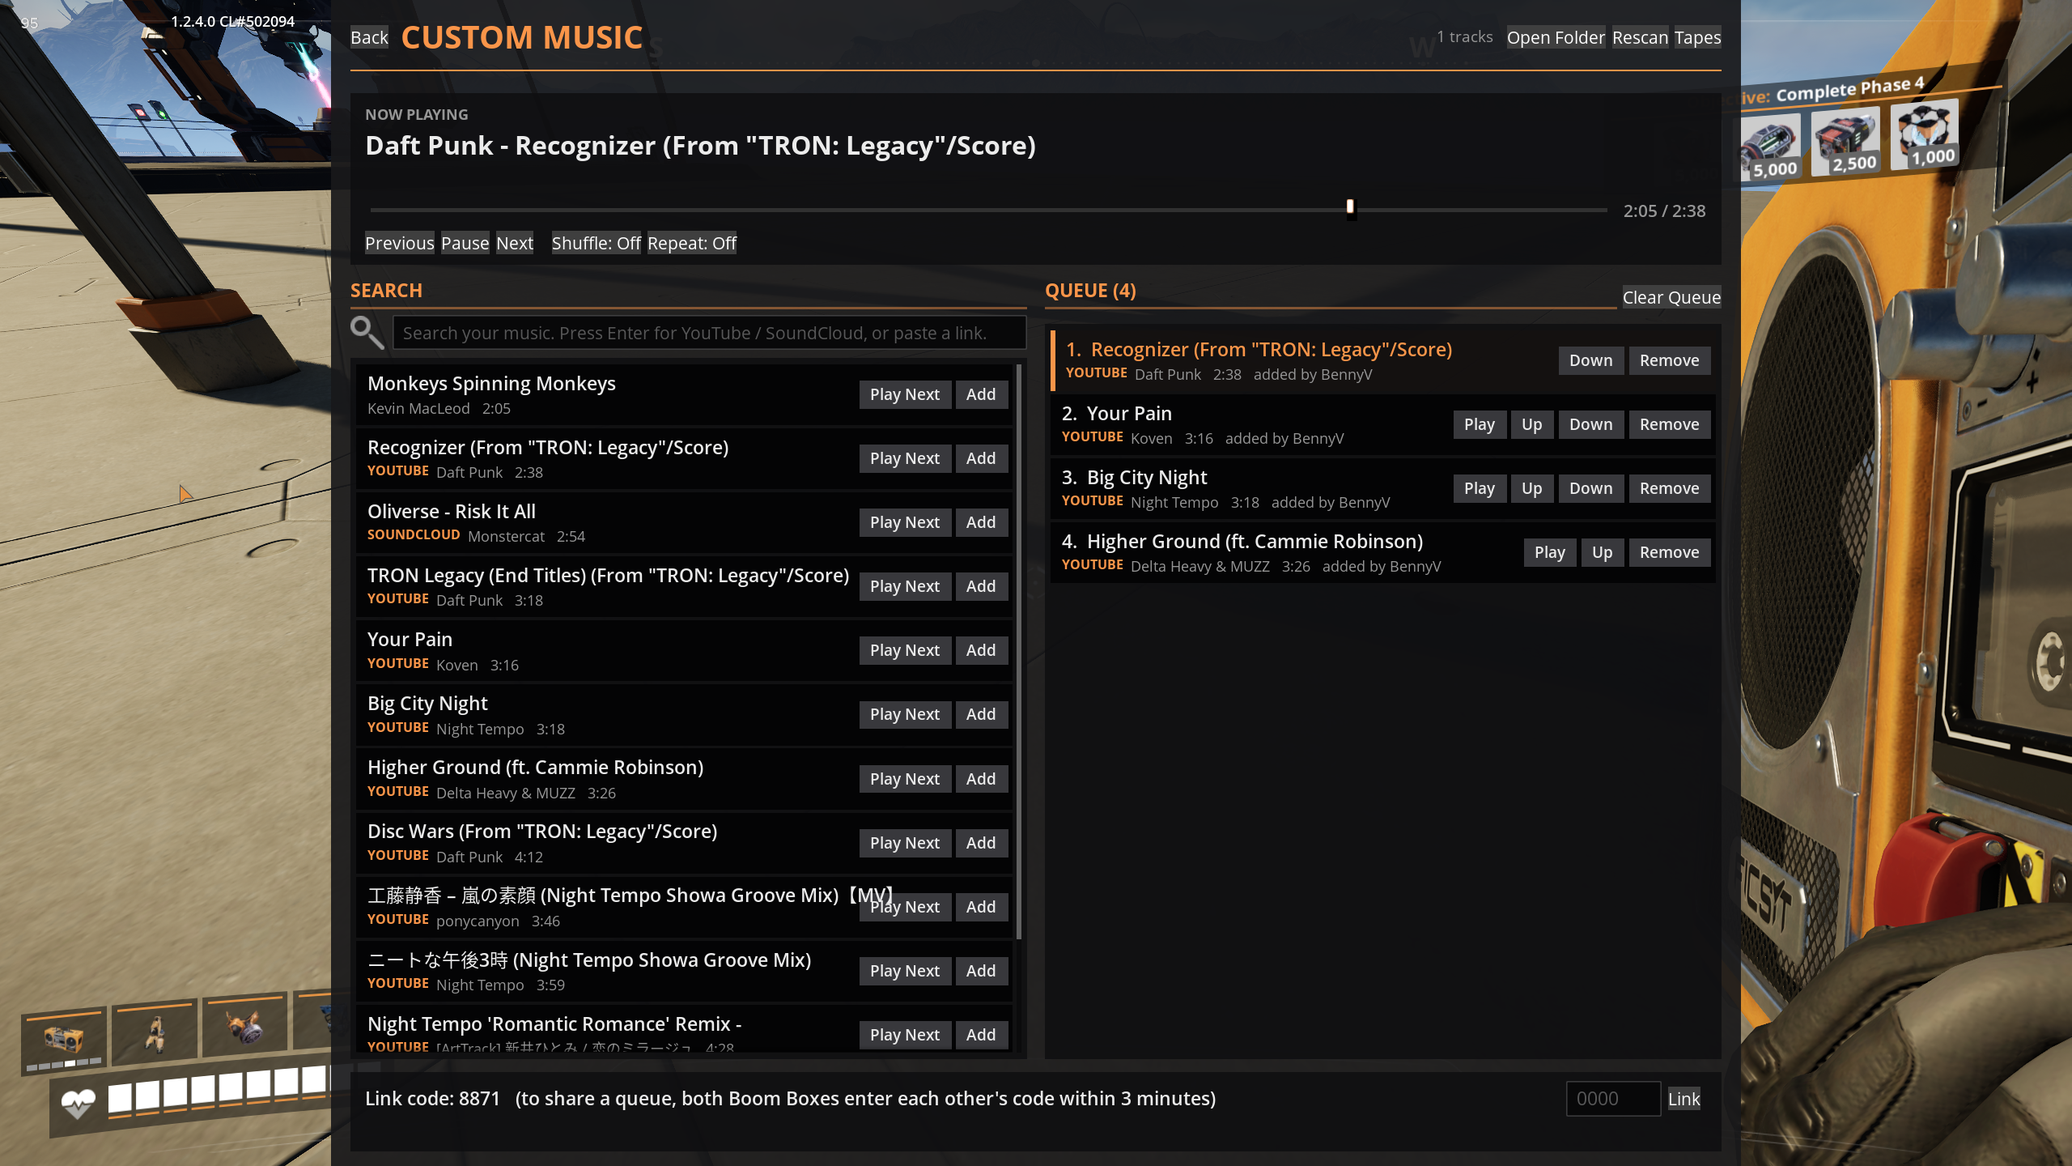
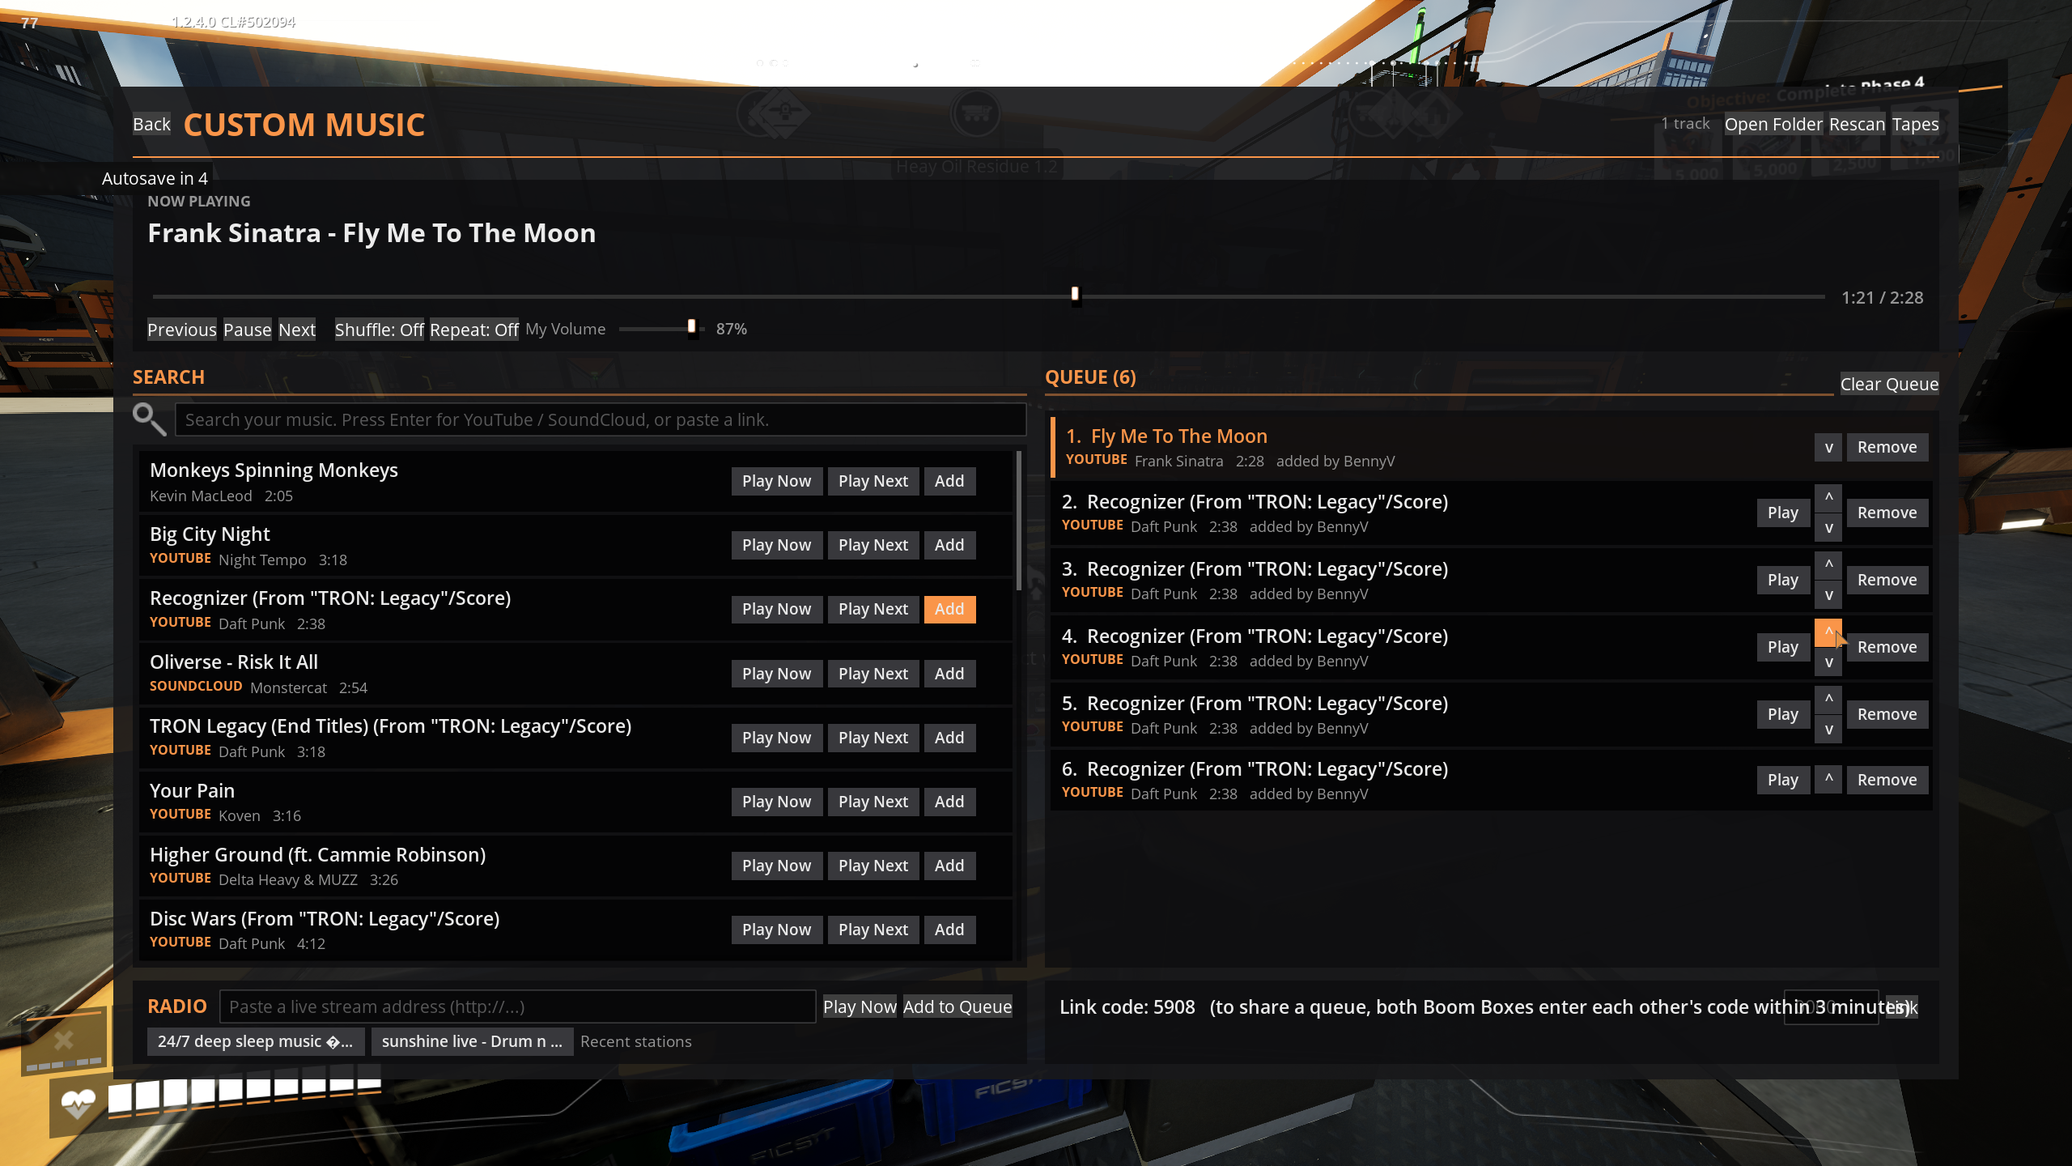
New screenshots; deletable demo track; strip emoji from titles; fit the link panel
- Docs: new in-game screenshots (search results, radio, YouTube live, queue with
  move arrows); mod page leads with the Custom Music button instead of the tape.
- The demo track is copied into the music folder once instead of being scanned
  from the plugin folder, so players can delete it.
- Titles drop emoji and pictographic symbols the game font can't draw.
- Link code line shortened; its explanation moved to the hint line; both clip.

diff --git a/Source/BoomBoxPlus/Private/UI/BBPMusicPage.cpp b/Source/BoomBoxPlus/Private/UI/BBPMusicPage.cpp
@@ -355,6 +355,7 @@ void UBBPMusicPage::BuildDefaultLayout()
 	LinkPanel->SetContent(LinkColumn);
 	UHorizontalBox* LinkRow = AddRow(LinkColumn, 0.f);
 	LinkCodeText = MakeText(WidgetTree, 13, TextColor, FText::GetEmpty(), EFontWeight::SemiBold);
+	Truncate(LinkCodeText);
 	AddToRow(LinkRow, LinkCodeText, true, 10.f);
 	LinkCodeBox = WidgetTree->ConstructWidget<UEditableTextBox>();
 	StyleTextBox(LinkCodeBox, 13);
@@ -368,6 +369,7 @@ void UBBPMusicPage::BuildDefaultLayout()
 	UnlinkButton = MakeButton(WidgetTree, LOCTEXT("Unlink", "Leave Group"));
 	AddToRow(LinkRow, UnlinkButton, false, 0.f);
 	LinkMessageText = MakeText(WidgetTree, 11, DimTextColor);
+	Truncate(LinkMessageText);
 	LinkColumn->AddChildToVerticalBox(LinkMessageText)->SetPadding(FMargin(0.f, 4.f, 0.f, 0.f));
 }
 
@@ -828,8 +830,8 @@ void UBBPMusicPage::RefreshTransport()
 	if (NowPlayingText)
 	{
 		NowPlayingText->SetText(!bHasCurrent ? LOCTEXT("NothingPlaying", "Nothing playing")
-			: bLive ? FText::FromString(Current.Track.Title)
-			: FText::FromString(FString::Printf(TEXT("%s - %s"), *Current.Track.Artist, *Current.Track.Title)));
+			: bLive ? BBPWidgetStyle::ToDisplayText(Current.Track.Title)
+			: BBPWidgetStyle::ToDisplayText(FString::Printf(TEXT("%s - %s"), *Current.Track.Artist, *Current.Track.Title)));
 	}
 	if (PositionText)
 	{
@@ -868,7 +870,7 @@ void UBBPMusicPage::RefreshTransport()
 		{
 			Line = UBBPBlueprintLibrary::GetCurrentLyricLine(Channel);
 		}
-		LyricText->SetText(FText::FromString(Line));
+		LyricText->SetText(BBPWidgetStyle::ToDisplayText(Line));
 	}
 	if (Channel)
 	{
@@ -895,12 +897,12 @@ void UBBPMusicPage::RefreshLink()
 		}
 		else if (Shared > 1)
 		{
-			Text = FText::Format(LOCTEXT("LinkCodeShared", "Link code: {0}   (grouped with {1} Boom Boxes; this stays paired across saves)"),
+			Text = FText::Format(LOCTEXT("LinkCodeShared", "Link code: {0}   (grouped with {1} Boom Boxes)"),
 				FText::FromString(FString::Printf(TEXT("%04d"), Channel->GetLinkCode())), Shared);
 		}
 		else
 		{
-			Text = FText::Format(LOCTEXT("LinkCodeSolo", "Link code: {0}   (to share a queue, both Boom Boxes enter each other's code within 3 minutes)"),
+			Text = FText::Format(LOCTEXT("LinkCodeSolo", "Link code: {0}"),
 				FText::FromString(FString::Printf(TEXT("%04d"), Channel->GetLinkCode())));
 		}
 		LinkCodeText->SetText(Text);
@@ -938,7 +940,9 @@ void UBBPMusicPage::RefreshLink()
 		}
 	}
 	const bool bRecent = LinkMessageTime >= 0.0 && FPlatformTime::Seconds() - LinkMessageTime < LinkMessageSeconds;
-	LinkMessageText->SetText(bRecent ? LinkMessage : FText::GetEmpty());
+	LinkMessageText->SetText(bRecent ? LinkMessage : Shared > 1
+		? LOCTEXT("LinkHintShared", "These Boom Boxes share one queue and stay paired across saves.")
+		: LOCTEXT("LinkHintSolo", "To share a queue, both Boom Boxes enter each other's code within 3 minutes."));
 	LinkMessageText->SetColorAndOpacity(BBPWidgetStyle::DimTextColor);
 }
 
@@ -1167,7 +1171,7 @@ void UBBPMusicPage::RefreshRadioStations()
 		BBPWidgetStyle::SetShown(Button, bShow);
 		if (bShow)
 		{
-			const FString& Title = Stations[i].Title;
+			const FString Title = BBPWidgetStyle::ToDisplayText(Stations[i].Title).ToString();
 			Button->SetLabel(FText::FromString(Title.Len() > 24 ? Title.Left(23) + TEXT("...") : Title));
 			Button->SetToolTipText(FText::FromString(Stations[i].SourceRef));
 		}
@@ -1182,7 +1186,7 @@ void UBBPMusicPage::SetRadioStatus(const FString& Status, bool bError)
 {
 	if (RadioStatusText)
 	{
-		RadioStatusText->SetText(FText::FromString(Status));
+		RadioStatusText->SetText(BBPWidgetStyle::ToDisplayText(Status));
 		RadioStatusText->SetColorAndOpacity(bError ? BBPWidgetStyle::AccentColor : BBPWidgetStyle::DimTextColor);
 	}
 }

diff --git a/Source/BoomBoxPlus/Private/Library/BBPLibrarySubsystem.cpp b/Source/BoomBoxPlus/Private/Library/BBPLibrarySubsystem.cpp
@@ -154,6 +154,7 @@ void UBBPLibrarySubsystem::Initialize(FSubsystemCollectionBase& Collection)
 	}
 
 	UE_LOG(LogBoomBoxPlus, Log, TEXT("Library: music folder is '%s'"), *MusicFolder);
+	CopyDemoMusicOnce();
 
 	FBBPLibraryCache Cache;
 	FString CacheJson;
@@ -361,18 +362,43 @@ FString UBBPLibrarySubsystem::GetCachePath() const
 
 TArray<FString> UBBPLibrarySubsystem::GetScanFolders() const
 {
-	TArray<FString> Folders = { GetMusicFolder() };
-	if (const TSharedPtr<IPlugin> Plugin = IPluginManager::Get().FindPlugin(TEXT("BoomBoxPlus")))
+	return { GetMusicFolder() };
+}
+
+void UBBPLibrarySubsystem::CopyDemoMusicOnce() const
+{
+	// The marker records that the copy happened, so a demo track the player deleted doesn't come back.
+	const FString Marker = FPaths::ProjectSavedDir() / TEXT("BoomBoxPlus") / TEXT("DemoMusicCopied.txt");
+	if (FPaths::FileExists(Marker))
 	{
-		const FString BundledMusic = Plugin->GetBaseDir() / TEXT("Resources") / TEXT("Music");
-		if (FPaths::DirectoryExists(BundledMusic))
+		return;
+	}
+	const TSharedPtr<IPlugin> Plugin = IPluginManager::Get().FindPlugin(TEXT("BoomBoxPlus"));
+	if (!Plugin)
+	{
+		UE_LOG(LogBoomBoxPlus, Warning, TEXT("Library: BoomBoxPlus plugin not found by the plugin manager; demo track not copied"));
+		return;
+	}
+	const FString BundledMusic = Plugin->GetBaseDir() / TEXT("Resources") / TEXT("Music");
+	TArray<FString> Files;
+	IFileManager::Get().FindFiles(Files, *BundledMusic, nullptr);
+	int32 NumCopied = 0;
+	for (const FString& File : Files)
+	{
+		if (!IsAudioFile(File))
 		{
-			Folders.Add(BundledMusic);
+			continue;
+		}
+		const FString Target = GetMusicFolder() / File;
+		if (FPaths::FileExists(Target) || IFileManager::Get().Copy(*Target, *(BundledMusic / File)) == COPY_OK)
+		{
+			++NumCopied;
+		}
+		else
+		{
+			UE_LOG(LogBoomBoxPlus, Warning, TEXT("Library: could not copy demo track '%s' to '%s'"), *File, *Target);
 		}
 	}
-	else
-	{
-		UE_LOG(LogBoomBoxPlus, Warning, TEXT("Library: BoomBoxPlus plugin not found by the plugin manager; bundled music skipped"));
-	}
-	return Folders;
+	FFileHelper::SaveStringToFile(FString::Printf(TEXT("BoomBoxPlus copied its demo track into the music folder (%d file(s)). Delete this file to copy it again."), NumCopied), *Marker);
+	UE_LOG(LogBoomBoxPlus, Log, TEXT("Library: copied %d demo track(s) into the music folder"), NumCopied);
 }

diff --git a/Source/BoomBoxPlus/Private/UI/BBPHudOverlay.cpp b/Source/BoomBoxPlus/Private/UI/BBPHudOverlay.cpp
@@ -82,7 +82,7 @@ void UBBPHudOverlay::NativeTick(const FGeometry& MyGeometry, float InDeltaTime)
 	if (LyricText)
 	{
 		const FString Line = (bPlaying && bShowLyrics) ? UBBPBlueprintLibrary::GetCurrentLyricLine(Channel) : FString();
-		LyricText->SetText(FText::FromString(Line));
+		LyricText->SetText(BBPWidgetStyle::ToDisplayText(Line));
 	}
 
 	// Entry ids are per channel, so a different channel counts as a different track.
@@ -95,8 +95,8 @@ void UBBPHudOverlay::NativeTick(const FGeometry& MyGeometry, float InDeltaTime)
 		if (bPlaying && bShowNowPlaying)
 		{
 			NowPlayingTimeLeft = NowPlayingSeconds;
-			if (NowPlayingTitleText) NowPlayingTitleText->SetText(FText::FromString(Current.Track.Title));
-			if (NowPlayingArtistText) NowPlayingArtistText->SetText(FText::FromString(Current.Track.Artist));
+			if (NowPlayingTitleText) NowPlayingTitleText->SetText(BBPWidgetStyle::ToDisplayText(Current.Track.Title));
+			if (NowPlayingArtistText) NowPlayingArtistText->SetText(BBPWidgetStyle::ToDisplayText(Current.Track.Artist));
 		}
 	}
 	else if (bPlaying && Current.Track.IsLive())
@@ -112,8 +112,8 @@ void UBBPHudOverlay::NativeTick(const FGeometry& MyGeometry, float InDeltaTime)
 			if (bShowNowPlaying && !SongTitle.IsEmpty() && SongTitle != Current.Track.Title)
 			{
 				NowPlayingTimeLeft = NowPlayingSeconds;
-				if (NowPlayingTitleText) NowPlayingTitleText->SetText(FText::FromString(SongTitle));
-				if (NowPlayingArtistText) NowPlayingArtistText->SetText(FText::FromString(Current.Track.Title));
+				if (NowPlayingTitleText) NowPlayingTitleText->SetText(BBPWidgetStyle::ToDisplayText(SongTitle));
+				if (NowPlayingArtistText) NowPlayingArtistText->SetText(BBPWidgetStyle::ToDisplayText(Current.Track.Title));
 			}
 		}
 	}

diff --git a/Source/BoomBoxPlus/Private/UI/BBPTrackRow.cpp b/Source/BoomBoxPlus/Private/UI/BBPTrackRow.cpp
@@ -100,9 +100,9 @@ void UBBPTrackRow::SetupAsResult(const FBBPTrack& InTrack)
 	EntryId = INDEX_NONE;
 	Index = INDEX_NONE;
 
-	if (TitleText) TitleText->SetText(FText::FromString(Track.Title));
+	if (TitleText) TitleText->SetText(BBPWidgetStyle::ToDisplayText(Track.Title));
 	ShowSourceTag();
-	if (DetailText) DetailText->SetText(FText::FromString(Track.IsLive() ? Track.Artist
+	if (DetailText) DetailText->SetText(BBPWidgetStyle::ToDisplayText(Track.IsLive() ? Track.Artist
 		: FString::Printf(TEXT("%s   %s"), *Track.Artist, *UBBPBlueprintLibrary::FormatDuration(Track.Duration))));
 	if (RowBackground) RowBackground->SetBrushColor(BBPWidgetStyle::RowColor);
 	BBPWidgetStyle::SetShown(PlayingMarker, false);
@@ -141,12 +141,12 @@ void UBBPTrackRow::SetupAsQueueEntry(const FBBPQueueEntry& Entry, int32 InIndex,
 
 	if (TitleText)
 	{
-		TitleText->SetText(FText::FromString(Title));
+		TitleText->SetText(BBPWidgetStyle::ToDisplayText(Title));
 		TitleText->SetColorAndOpacity(bPlaying ? BBPWidgetStyle::AccentColor : bMissing ? BBPWidgetStyle::DimTextColor : BBPWidgetStyle::TextColor);
 	}
 	if (DetailText)
 	{
-		DetailText->SetText(FText::FromString(Detail));
+		DetailText->SetText(BBPWidgetStyle::ToDisplayText(Detail));
 	}
 
 	BBPWidgetStyle::SetShown(AddFrontButton, false);

diff --git a/Source/BoomBoxPlus/Private/UI/BBPWidgetStyle.cpp b/Source/BoomBoxPlus/Private/UI/BBPWidgetStyle.cpp
@@ -75,6 +75,29 @@ UTextBlock* BBPWidgetStyle::MakeText(UWidgetTree* Tree, int32 FontSize, const FL
 	return Block;
 }
 
+FText BBPWidgetStyle::ToDisplayText(const FString& Text)
+{
+	FString Out;
+	Out.Reserve(Text.Len());
+	for (const TCHAR Char : Text)
+	{
+		const uint32 Code = (uint32)Char;
+		const bool bSurrogate = Code >= 0xD800 && Code <= 0xDFFF;		// emoji outside the basic plane
+		const bool bSymbol = Code >= 0x2600 && Code <= 0x27BF;			// miscellaneous symbols and dingbats
+		const bool bJoiner = Code == 0x200D || Code == 0xFE0E || Code == 0xFE0F;
+		if (bSurrogate || bSymbol || bJoiner)
+		{
+			continue;
+		}
+		if (Char == TEXT(' ') && Out.EndsWith(TEXT(" ")))
+		{
+			continue;
+		}
+		Out.AppendChar(Char);
+	}
+	return FText::FromString(Out.TrimStartAndEnd());
+}
+
 void BBPWidgetStyle::Truncate(UTextBlock* Text)
 {
 	if (Text)

diff --git a/Source/BoomBoxPlus/Private/UI/BBPWidgetStyle.h b/Source/BoomBoxPlus/Private/UI/BBPWidgetStyle.h
@@ -43,6 +43,10 @@ namespace BBPWidgetStyle
 	// Creates a text block in the game's font.
 	UTextBlock* MakeText(UWidgetTree* Tree, int32 FontSize, const FLinearColor& Color, const FText& Text = FText::GetEmpty(), EFontWeight Weight = EFontWeight::Regular);
 
+	// Returns Text for a text block in the game's font, which has no emoji: drops emoji, pictographic symbols and their
+	// joiners/variation selectors, and collapses the spaces they leave.
+	FText ToDisplayText(const FString& Text);
+
 	// Cuts text that doesn't fit its space off with "..." instead of letting it run over neighbouring widgets.
 	void Truncate(UTextBlock* Text);
 

diff --git a/Source/BoomBoxPlus/Public/Library/BBPLibrarySubsystem.h b/Source/BoomBoxPlus/Public/Library/BBPLibrarySubsystem.h
@@ -75,6 +75,9 @@ private:
 	FString GetCachePath() const;
 	TArray<FString> GetScanFolders() const;
 
+	// Copies the bundled demo track into the music folder the first time the mod runs, where the player can delete it.
+	void CopyDemoMusicOnce() const;
+
 	TArray<FBBPLocalTrack> Tracks;
 	TMap<FString, int32> TrackIndexById;
 

diff --git a/Docs/Release/ModPage.md b/Docs/Release/ModPage.md
@@ -14,13 +14,17 @@ Turn the Boom Box into a real speaker: your own music, YouTube, SoundCloud, Spot
 
 ## BoomBoxPlus
 
-The Boom Box finally plays **your** music. Load the new **Custom Music** tape and the Boom Box plays songs
-from your own music folder, YouTube or SoundCloud, whole Spotify playlists, or live internet radio, and
+The Boom Box finally plays **your** music. Press the new **Custom Music** button on any Boom Box and it
+plays songs from your own music folder, YouTube or SoundCloud, whole Spotify playlists, or live internet radio, and
 everyone within earshot hears the same song at the same moment.
 
 Inspired by the PEAK mod sPEAKer.
 
-![The Custom Music page: now playing, search results and the queue](https://raw.githubusercontent.com/benvrakas/BoomBoxPlus/main/Docs/Images/music-page.png)
+![The Custom Music page: now playing, search results, the queue and internet radio](https://raw.githubusercontent.com/benvrakas/BoomBoxPlus/main/Docs/Images/music-page.png)
+
+![Search results with Play Now, Play Next and Add](https://raw.githubusercontent.com/benvrakas/BoomBoxPlus/main/Docs/Images/search-results.png)
+
+![An internet radio station playing live](https://raw.githubusercontent.com/benvrakas/BoomBoxPlus/main/Docs/Images/radio.png)
 
 ![A Boom Box playing, with the current lyric line on screen](https://raw.githubusercontent.com/benvrakas/BoomBoxPlus/main/Docs/Images/lyrics-in-world.png)
 
@@ -61,8 +65,7 @@ Inspired by the PEAK mod sPEAKer.
 
 1. Install with Satisfactory Mod Manager. Everyone in a multiplayer session needs the mod.
 2. Pick up or open any Boom Box and press **Custom Music**.
-3. Search, then press **Play Now**, **Play Next** or **Add**. The Custom Music tape loads by itself when you press
-   Play or add a song.
+3. Search, then press **Play Now**, **Play Next** or **Add**.
 4. For radio, paste a stream address (for example `http://stream.sunshine-live.de/dnb/mp3-192`) into the
    **Radio** box at the bottom and press **Play Now**.
 
@@ -78,7 +81,8 @@ For YouTube, paste the link of a video that is live right now.
 ```
 
 Press **Open Folder** on the Custom Music page to open it, and **Rescan** after adding files. Subfolders
-work. A demo track is included so there's something to play right away.
+work. A demo track is put in the folder the first time, so there's something to play right away; delete it
+if you don't want it.
 
 In multiplayer, a song from your own folder only plays for players who have the same file. Everyone else
 sees it greyed out and stays silent for that song. YouTube, SoundCloud and Spotify songs are downloaded by
@@ -102,12 +106,8 @@ To read whole playlists you own (up to 1000 songs):
    Secret**.
 5. On the Custom Music page, press **Connect Spotify** and approve in your browser. You only do this once.
 
-![The Connect Spotify button under the search box](https://raw.githubusercontent.com/benvrakas/BoomBoxPlus/main/Docs/Images/connect-spotify.png)
-
 Pasting a playlist link shows the matches as they're found; **Add all** starts playing right away and
-keeps adding the rest in order:
-
-![A Spotify playlist being matched on YouTube](https://raw.githubusercontent.com/benvrakas/BoomBoxPlus/main/Docs/Images/spotify-matching.png)
+keeps adding the rest in order.
 
 Use the Spotify account that created the app. The mod only asks for permission to read playlists. The
 Client Secret is only ever sent to Spotify. Spotify albums work with just the Client ID and Secret, with

diff --git a/README.md b/README.md
@@ -13,29 +13,30 @@ PEAK mod sPEAKer.
 
 ## Screenshots
 
-The Custom Music page: now playing with a seek bar, search results from your own music, YouTube and
-SoundCloud, the queue, and the link code for sharing a queue.
+The Custom Music page: now playing with a seek bar, search results, the queue, internet radio and the link
+code for sharing a queue.
 
 ![The Custom Music page](Docs/Images/music-page.png)
+
+Search results from your own music, YouTube and SoundCloud, each with Play Now, Play Next and Add.
+
+![Search results](Docs/Images/search-results.png)
+
+An internet radio station and a YouTube live stream playing, with recent stations under the Radio box.
+
+![A radio station playing](Docs/Images/radio.png)
+
+![A YouTube live stream playing](Docs/Images/youtube-live.png)
 
 The current lyric line while a Boom Box plays nearby.
 
 ![Lyrics on screen near a Boom Box](Docs/Images/lyrics-in-world.png)
 
-The Boom Box's own screen with the added **Custom Music** button, next to Change Tape.
+The Boom Box's own screen with the added **Custom Music** button, and the Custom Music tape in the tape list.
 
 ![The vanilla Boom Box screen with the Custom Music button](Docs/Images/vanilla-boombox-page.png)
 
-Pasting a Spotify playlist: songs are matched on YouTube as you watch, and **Add all** queues them as
-they're found.
-
-![A Spotify playlist being matched](Docs/Images/spotify-matching.png)
-
-![Matching while the Spotify sign-in is open in the browser](Docs/Images/spotify-sign-in.png)
-
-**Connect Spotify** appears once a Spotify Client ID and Secret are set in the mod settings.
-
-![The Connect Spotify button](Docs/Images/connect-spotify.png)
+![The Custom Music tape in the tape list](Docs/Images/tape-list.png)
 
 ## Building
 

diff --git a/Docs/Library.md b/Docs/Library.md
@@ -7,8 +7,10 @@ knows which music files exist on *this* machine.
 
 - `<Saved>/BoomBoxPlus/Music/` — created on first run with a `README.txt`. In the shipped game `<Saved>` is
   `%LOCALAPPDATA%\FactoryGame\Saved`.
-- `<plugin>/Resources/Music/` — bundled tracks (the demo track). `Config/PluginSettings.ini` stages the
-  `Resources` folder with the mod.
+Only the music folder is scanned. The bundled demo track (`<plugin>/Resources/Music/`, staged by
+`Config/PluginSettings.ini`) is **copied into it once** (`CopyDemoMusicOnce`), so players can delete it like any
+other file; `<Saved>/BoomBoxPlus/DemoMusicCopied.txt` records the copy so a deleted demo track doesn't come back.
+Versions up to 1.1.0 scanned the plugin folder directly, which left the demo track undeletable.
 
 Sub-folders are included. Only `.mp3`/`.ogg`/`.wav` are considered (extension filter for scan speed; the
 format itself is still decided by magic bytes in `FBBPDecoder`).

diff --git a/Docs/Release/Discord.md b/Docs/Release/Discord.md
@@ -1,6 +1,6 @@
 **BoomBoxPlus: the Boom Box plays your music now** 🎶
 
-Load the new **Custom Music** tape and your Boom Box becomes a real speaker:
+Press the new **Custom Music** button on any Boom Box and it becomes a real speaker:
 - Your own mp3/ogg/wav files, plus **YouTube** and **SoundCloud** search and links
 - Paste a **Spotify** song, album or playlist: it finds each song and starts playing right away
 - **Internet radio** and **YouTube live streams**: paste a stream link into the Radio box

diff --git a/Docs/Release/Changelog.md b/Docs/Release/Changelog.md
@@ -18,6 +18,7 @@ or **Add to Queue**.
 **Changes since 1.0.0**
 
 - Search results have a **Play Now** button, next to Play Next and Add.
+- The demo track is now copied into your music folder once, so you can delete it.
 - Moving songs in the queue uses a small stacked ^ / v control instead of separate Up and Down buttons.
 
 - A **My Volume** slider on the Custom Music page, next to the transport controls. It's the same setting
